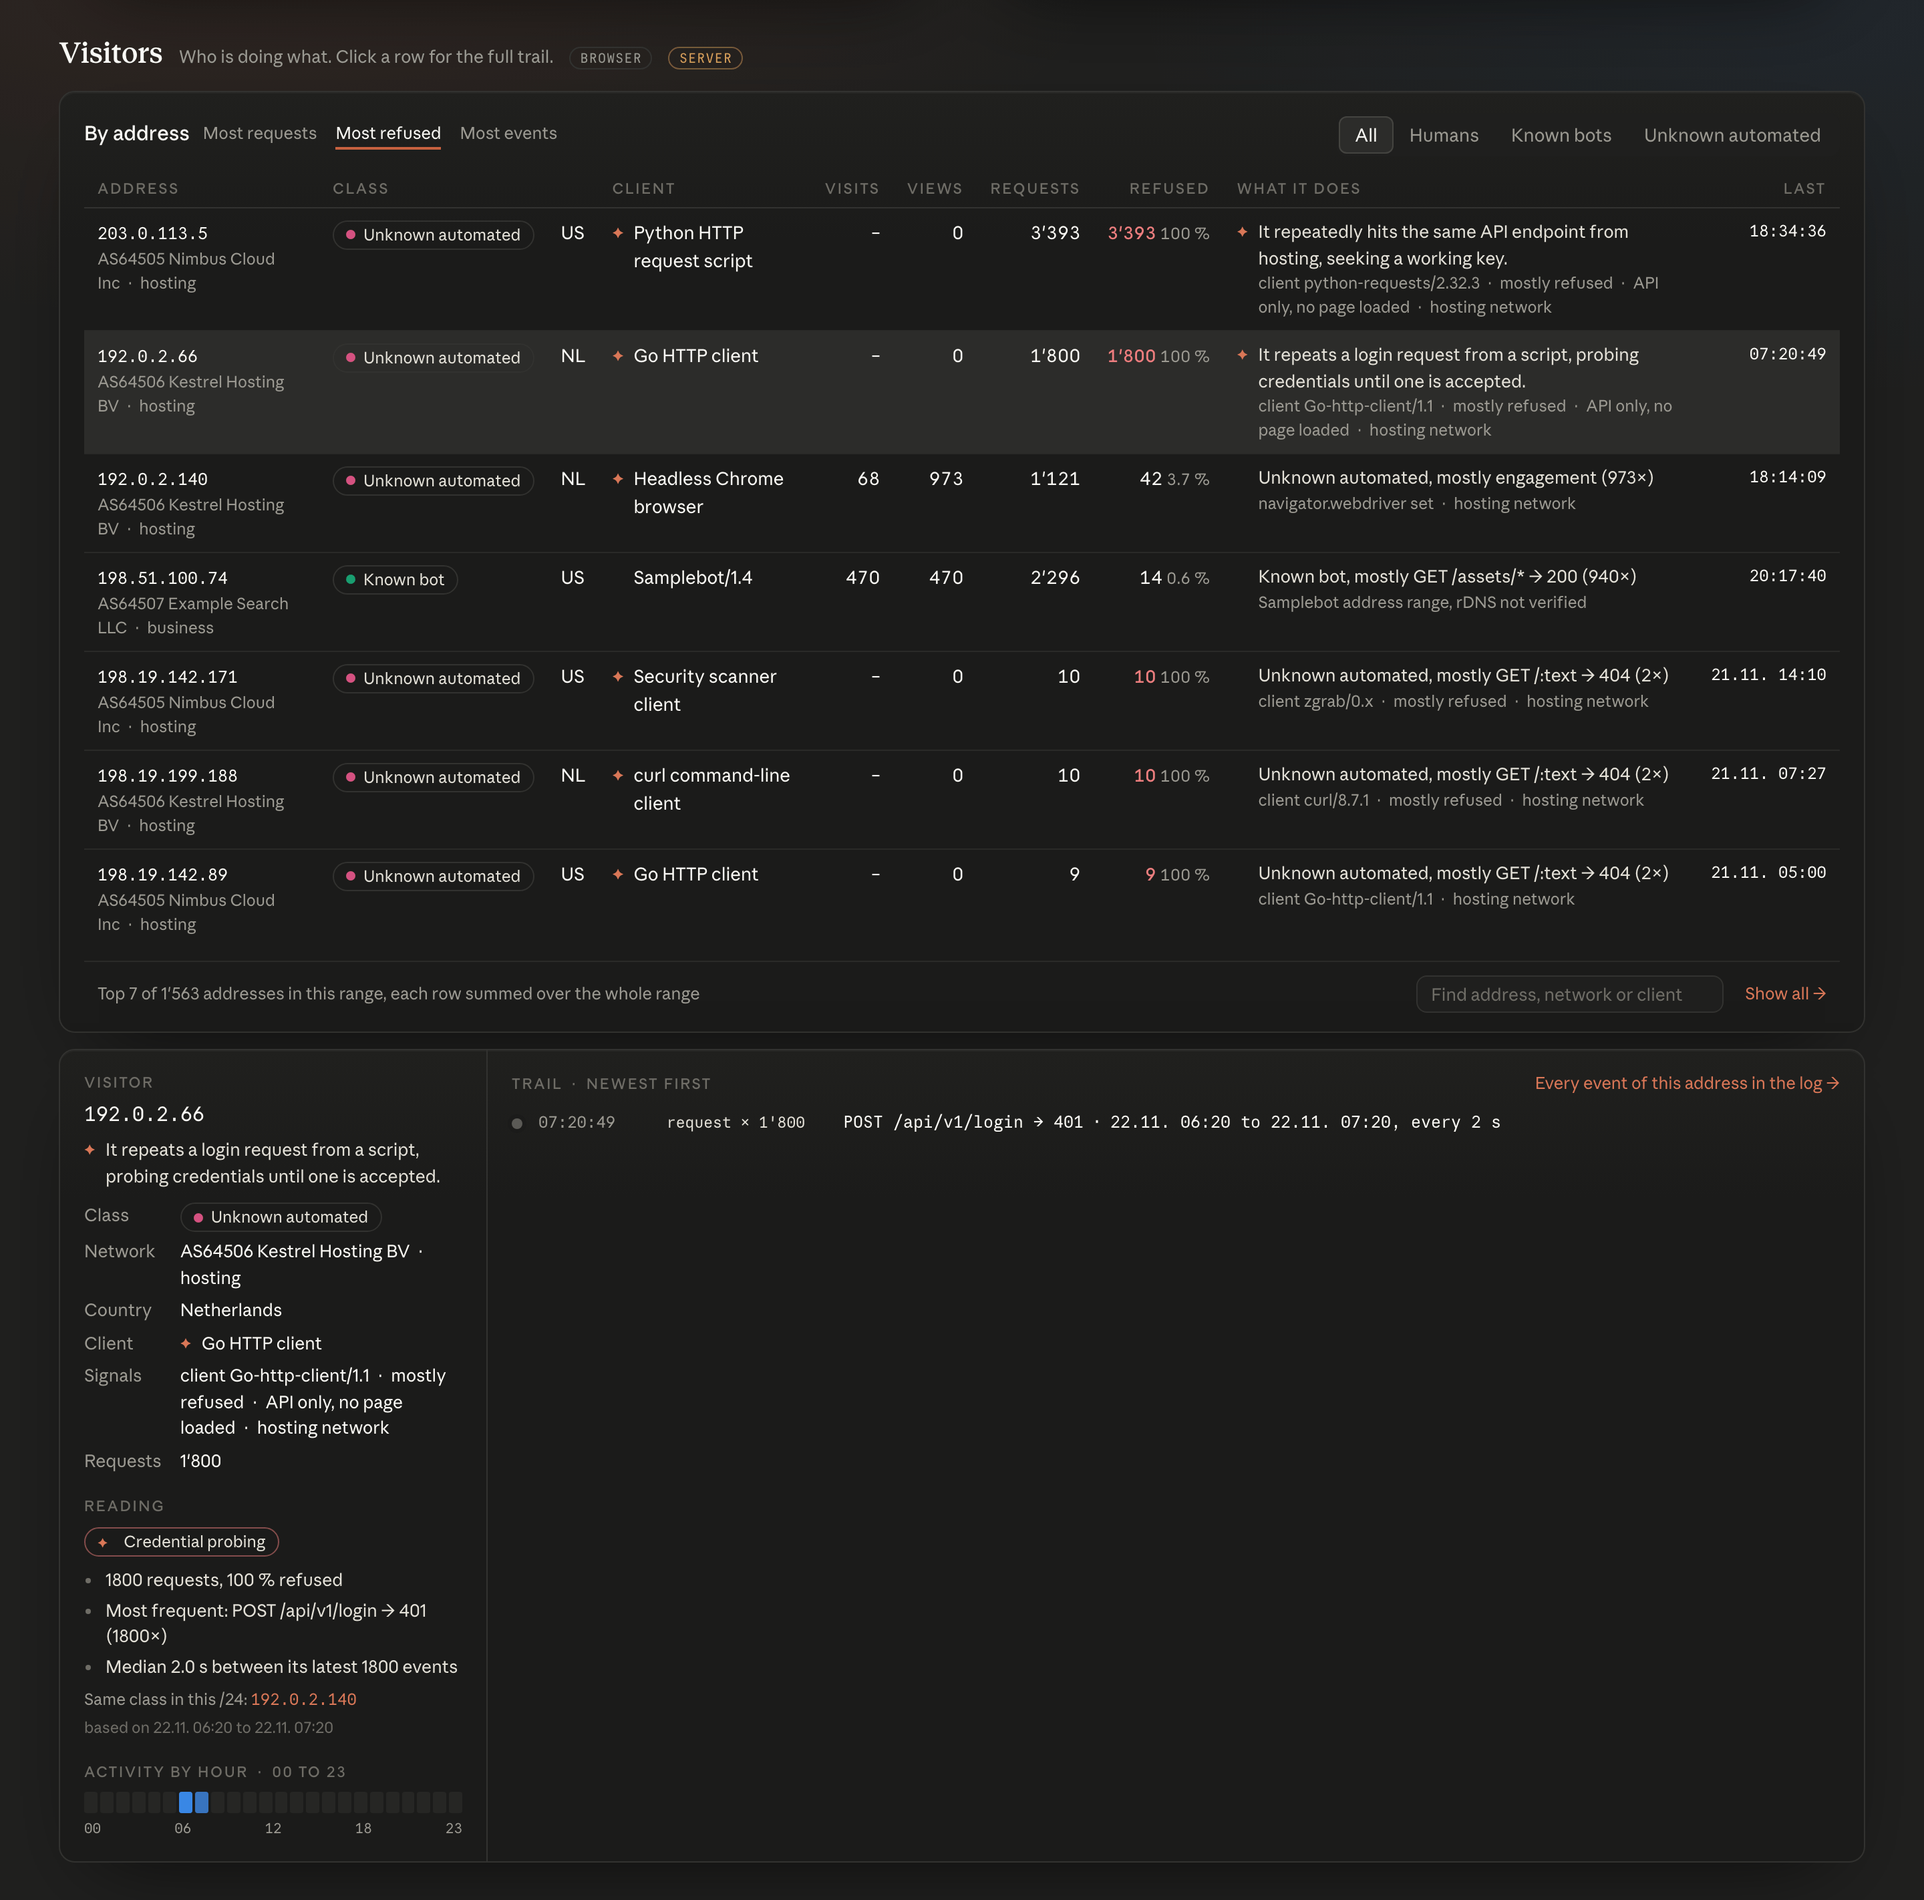
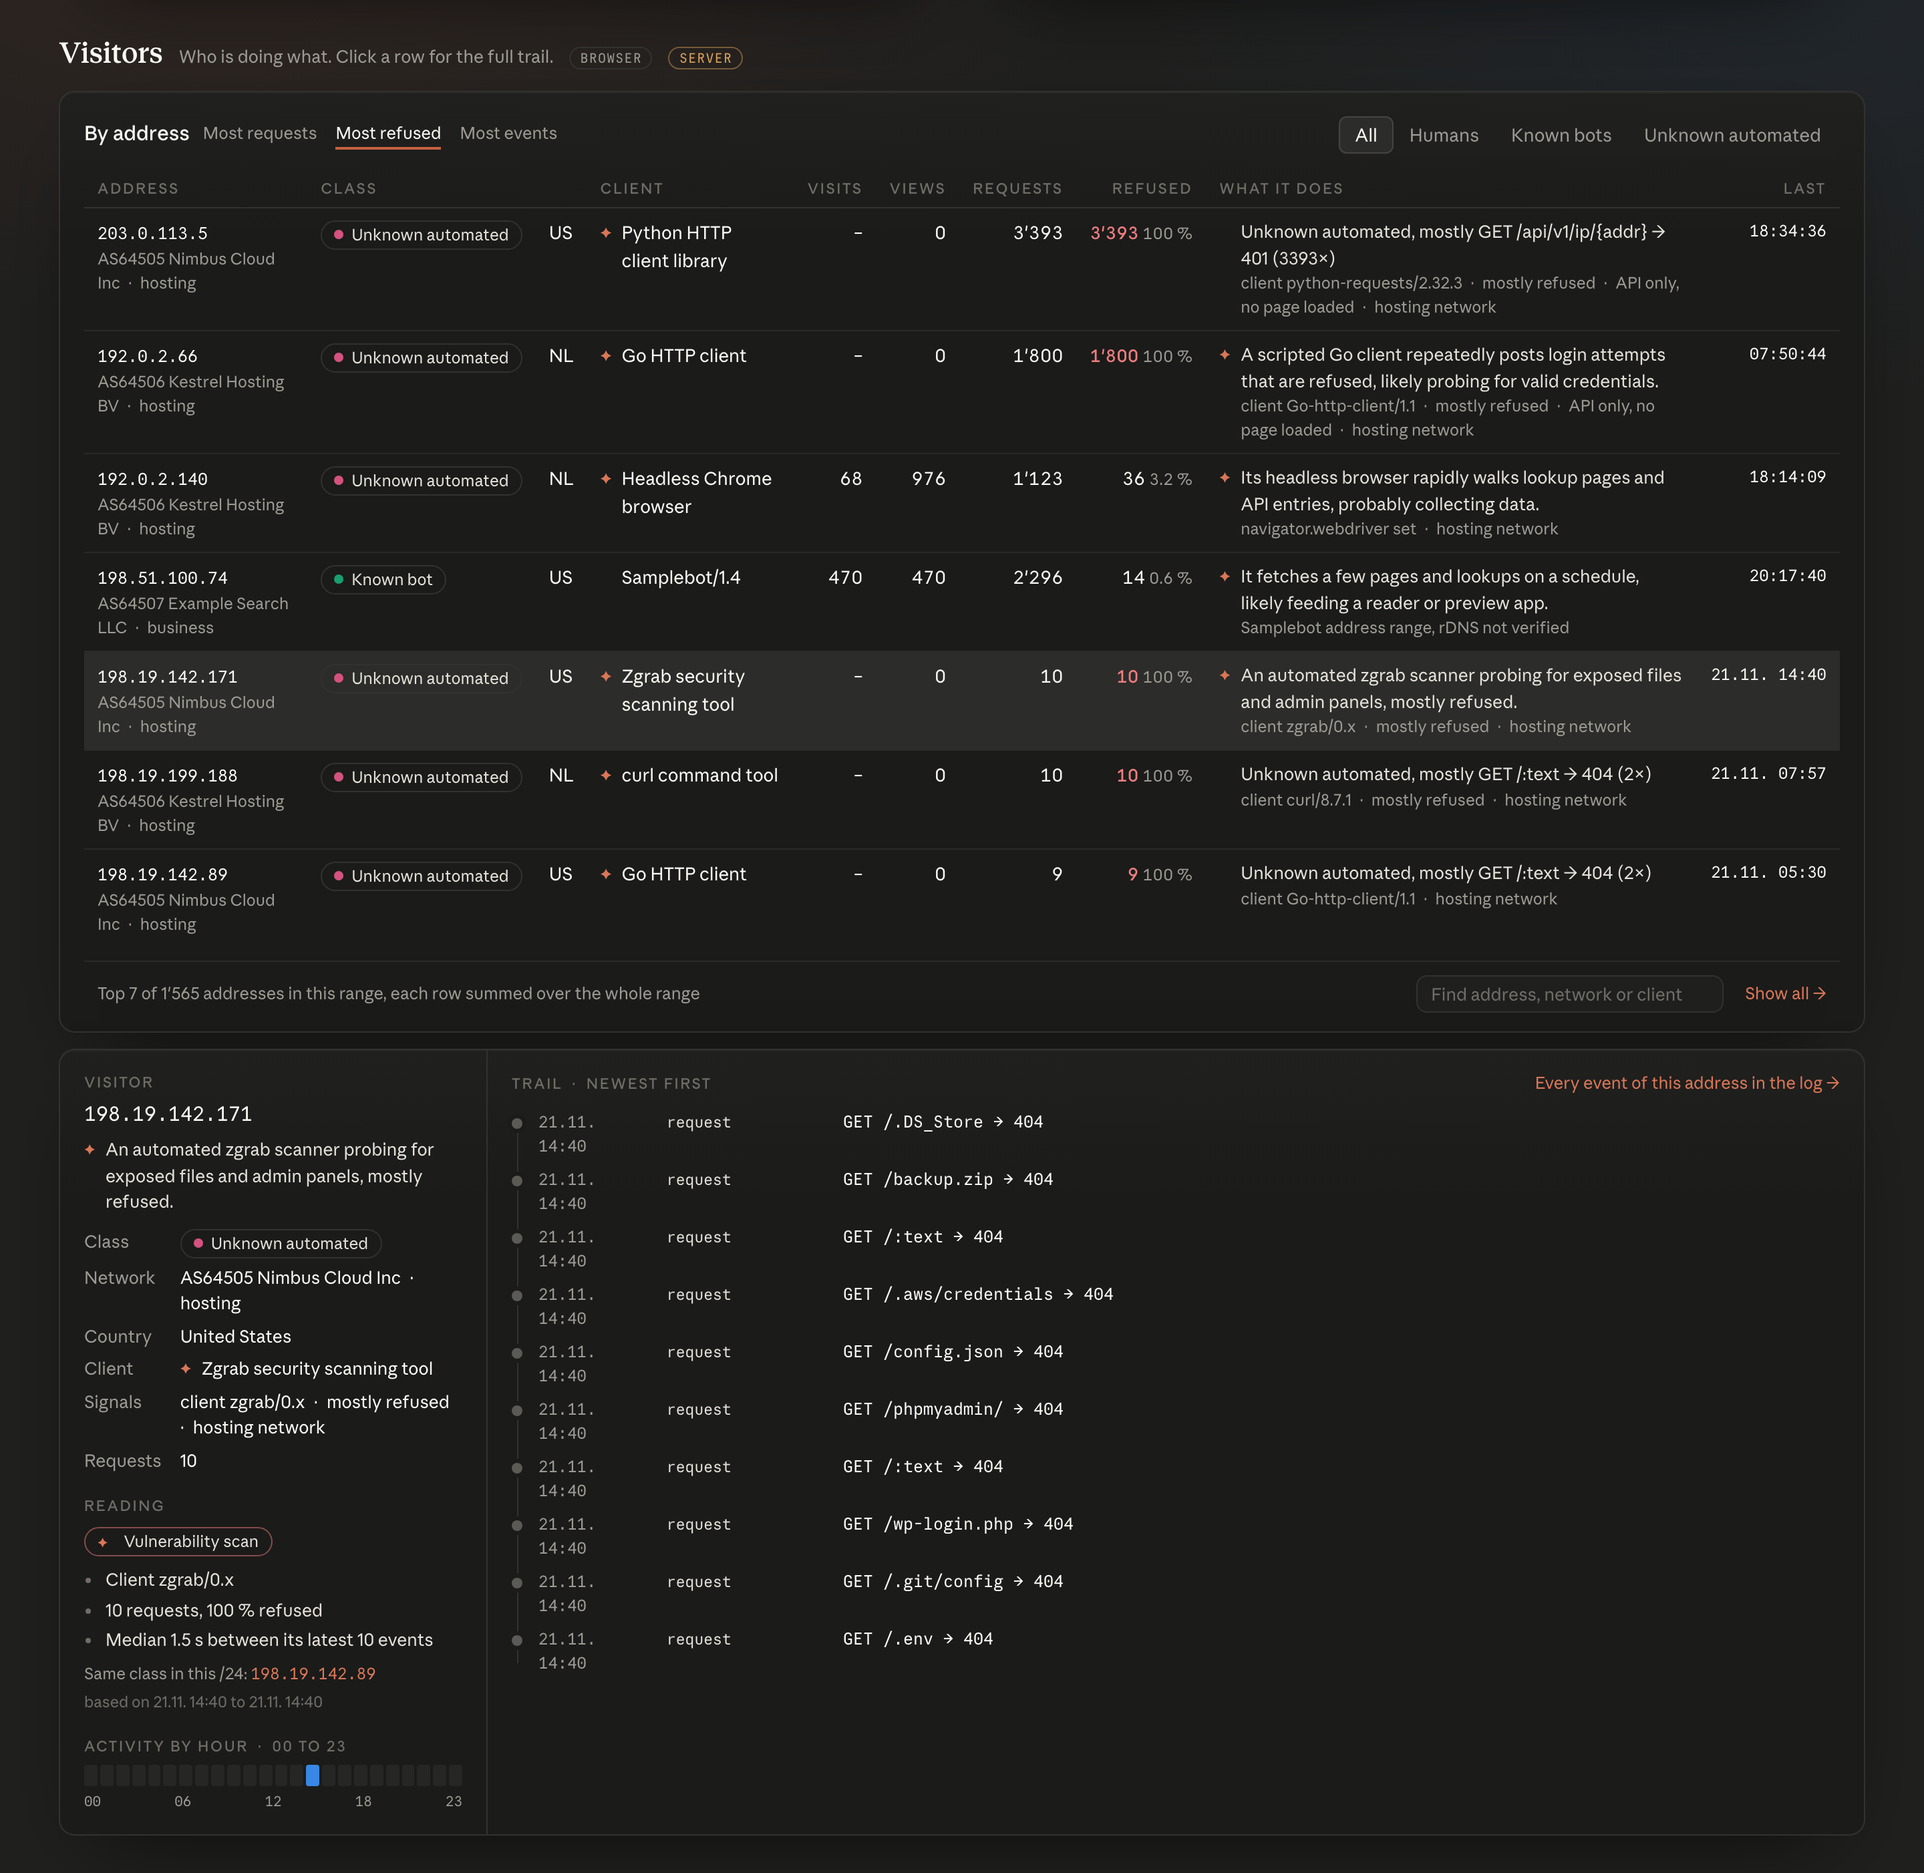
repo: show a scanner's trail in the README's visitor screenshot

diff --git a/README.md b/README.md
@@ -21,7 +21,7 @@ crawlers and uptime probes to scanners and scripts walking your API.
 - **One container.** A single image behind your reverse proxy, with its database inside and sign-in by OIDC or an
   admin token: `docker compose up -d`.
 
-![Visitors by address, each with what it does, and one opened: a script probing a login for credentials](docs/img/visitor.png)
+![Visitors by address, each with what it does, and one opened: a scanner probing for exposed files](docs/img/visitor.png)
 
 Both screenshots show simulated traffic.
 
